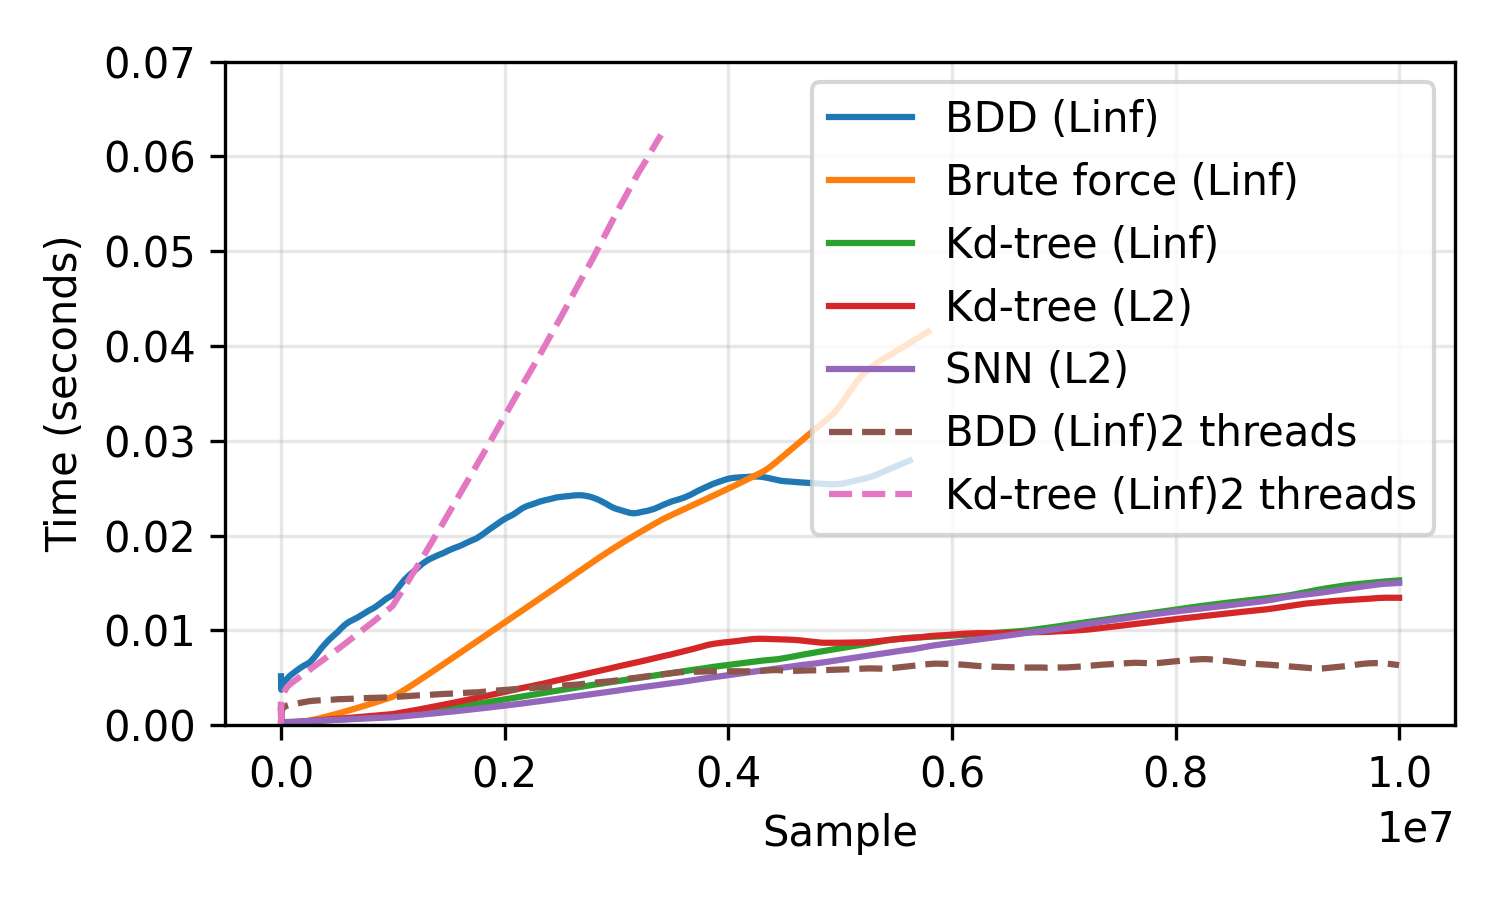
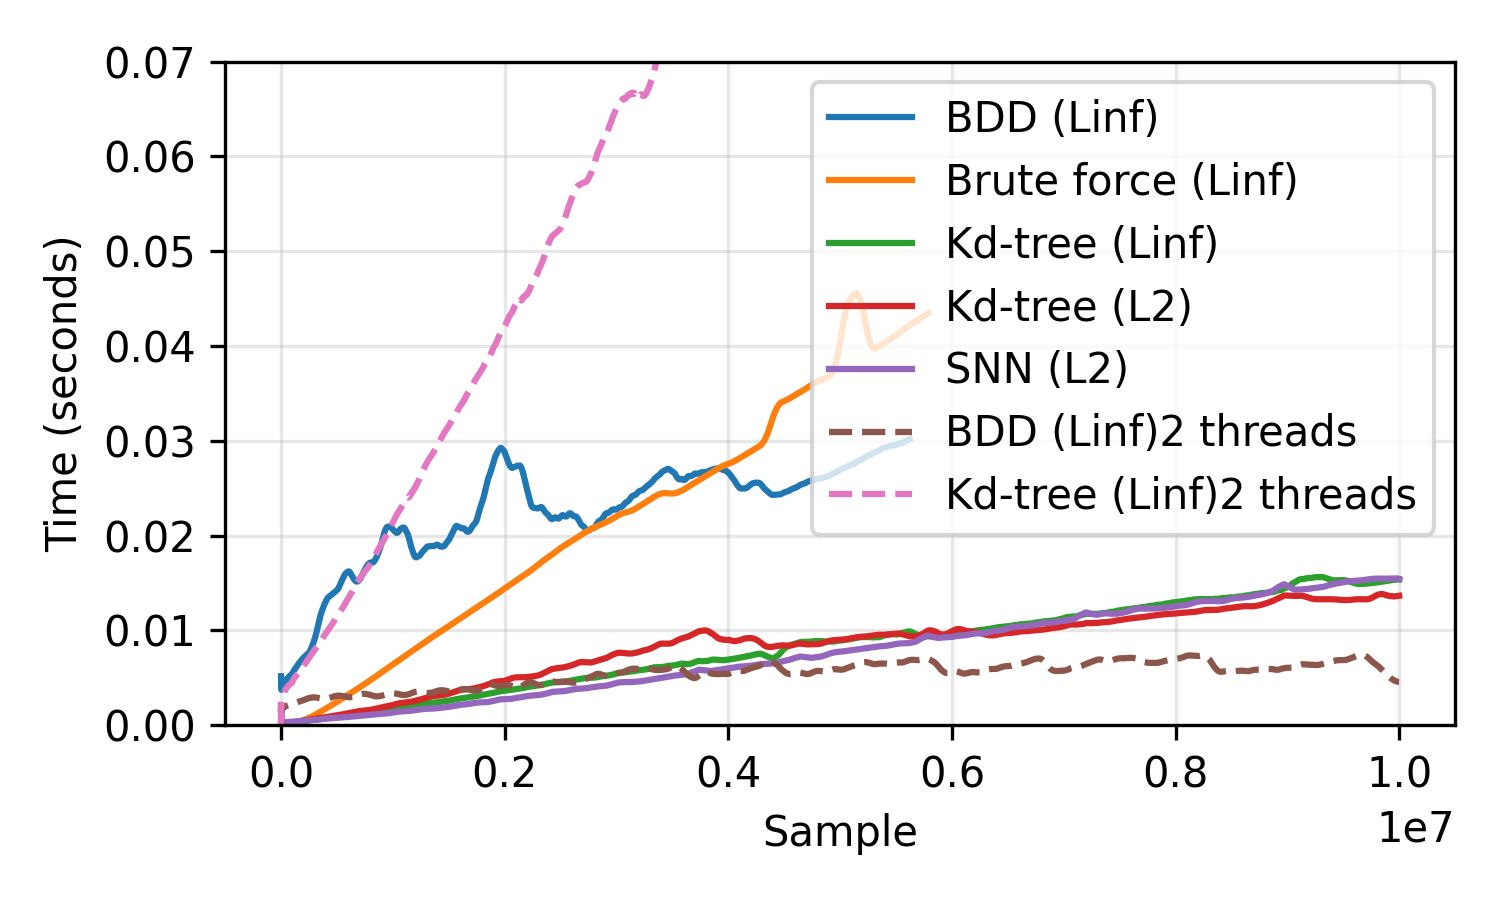
perf plots: less more smoothing

diff --git a/results/performance/plot.py b/results/performance/plot.py
@@ -90,7 +90,7 @@ plt.figure(figsize=(5, 3))
 for item in data:
     x = np.arange(len(item['timings'][args.omit_beginning:]))[::1000]
     y = rolling_average(item['timings'][args.omit_beginning:], args.windowsize)[::1000]
-    y = rolling_average(y, args.windowsize//100)
+    y = rolling_average(y, args.windowsize//1000)
     plt.plot(x, y, '-' if item['parallelization'] == '1' else '--', label=item["name"])
 
 plt.xlabel('Sample')
